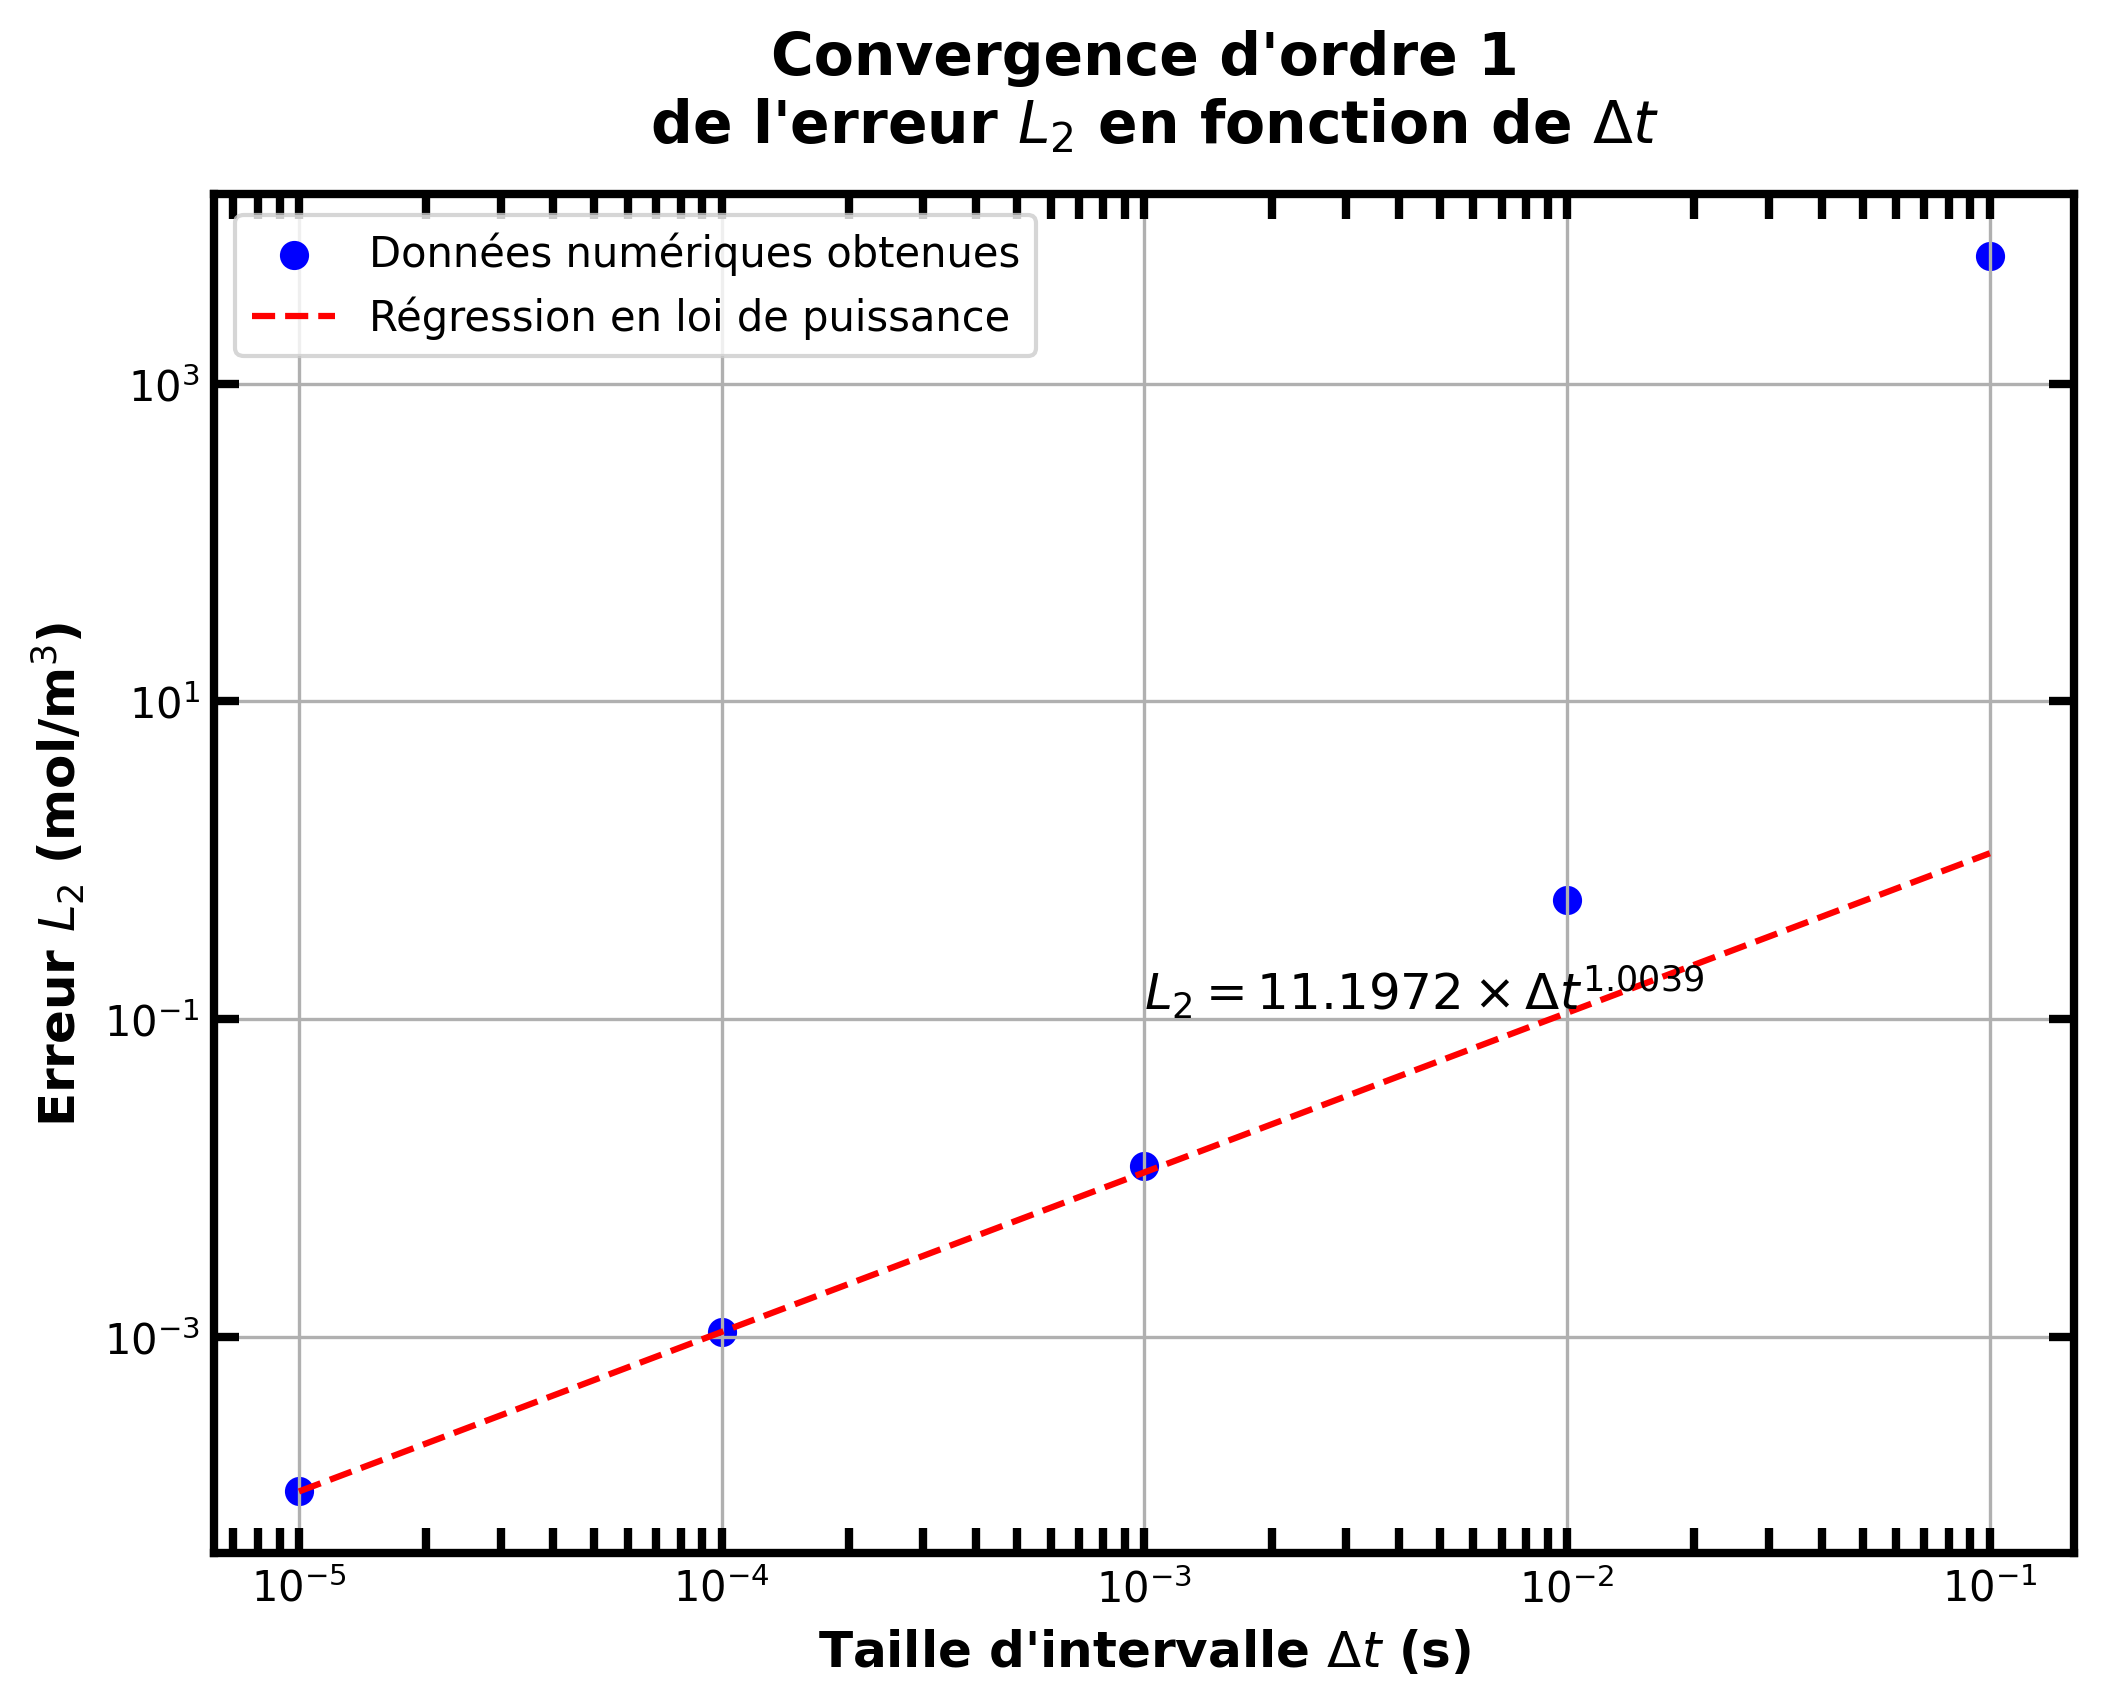
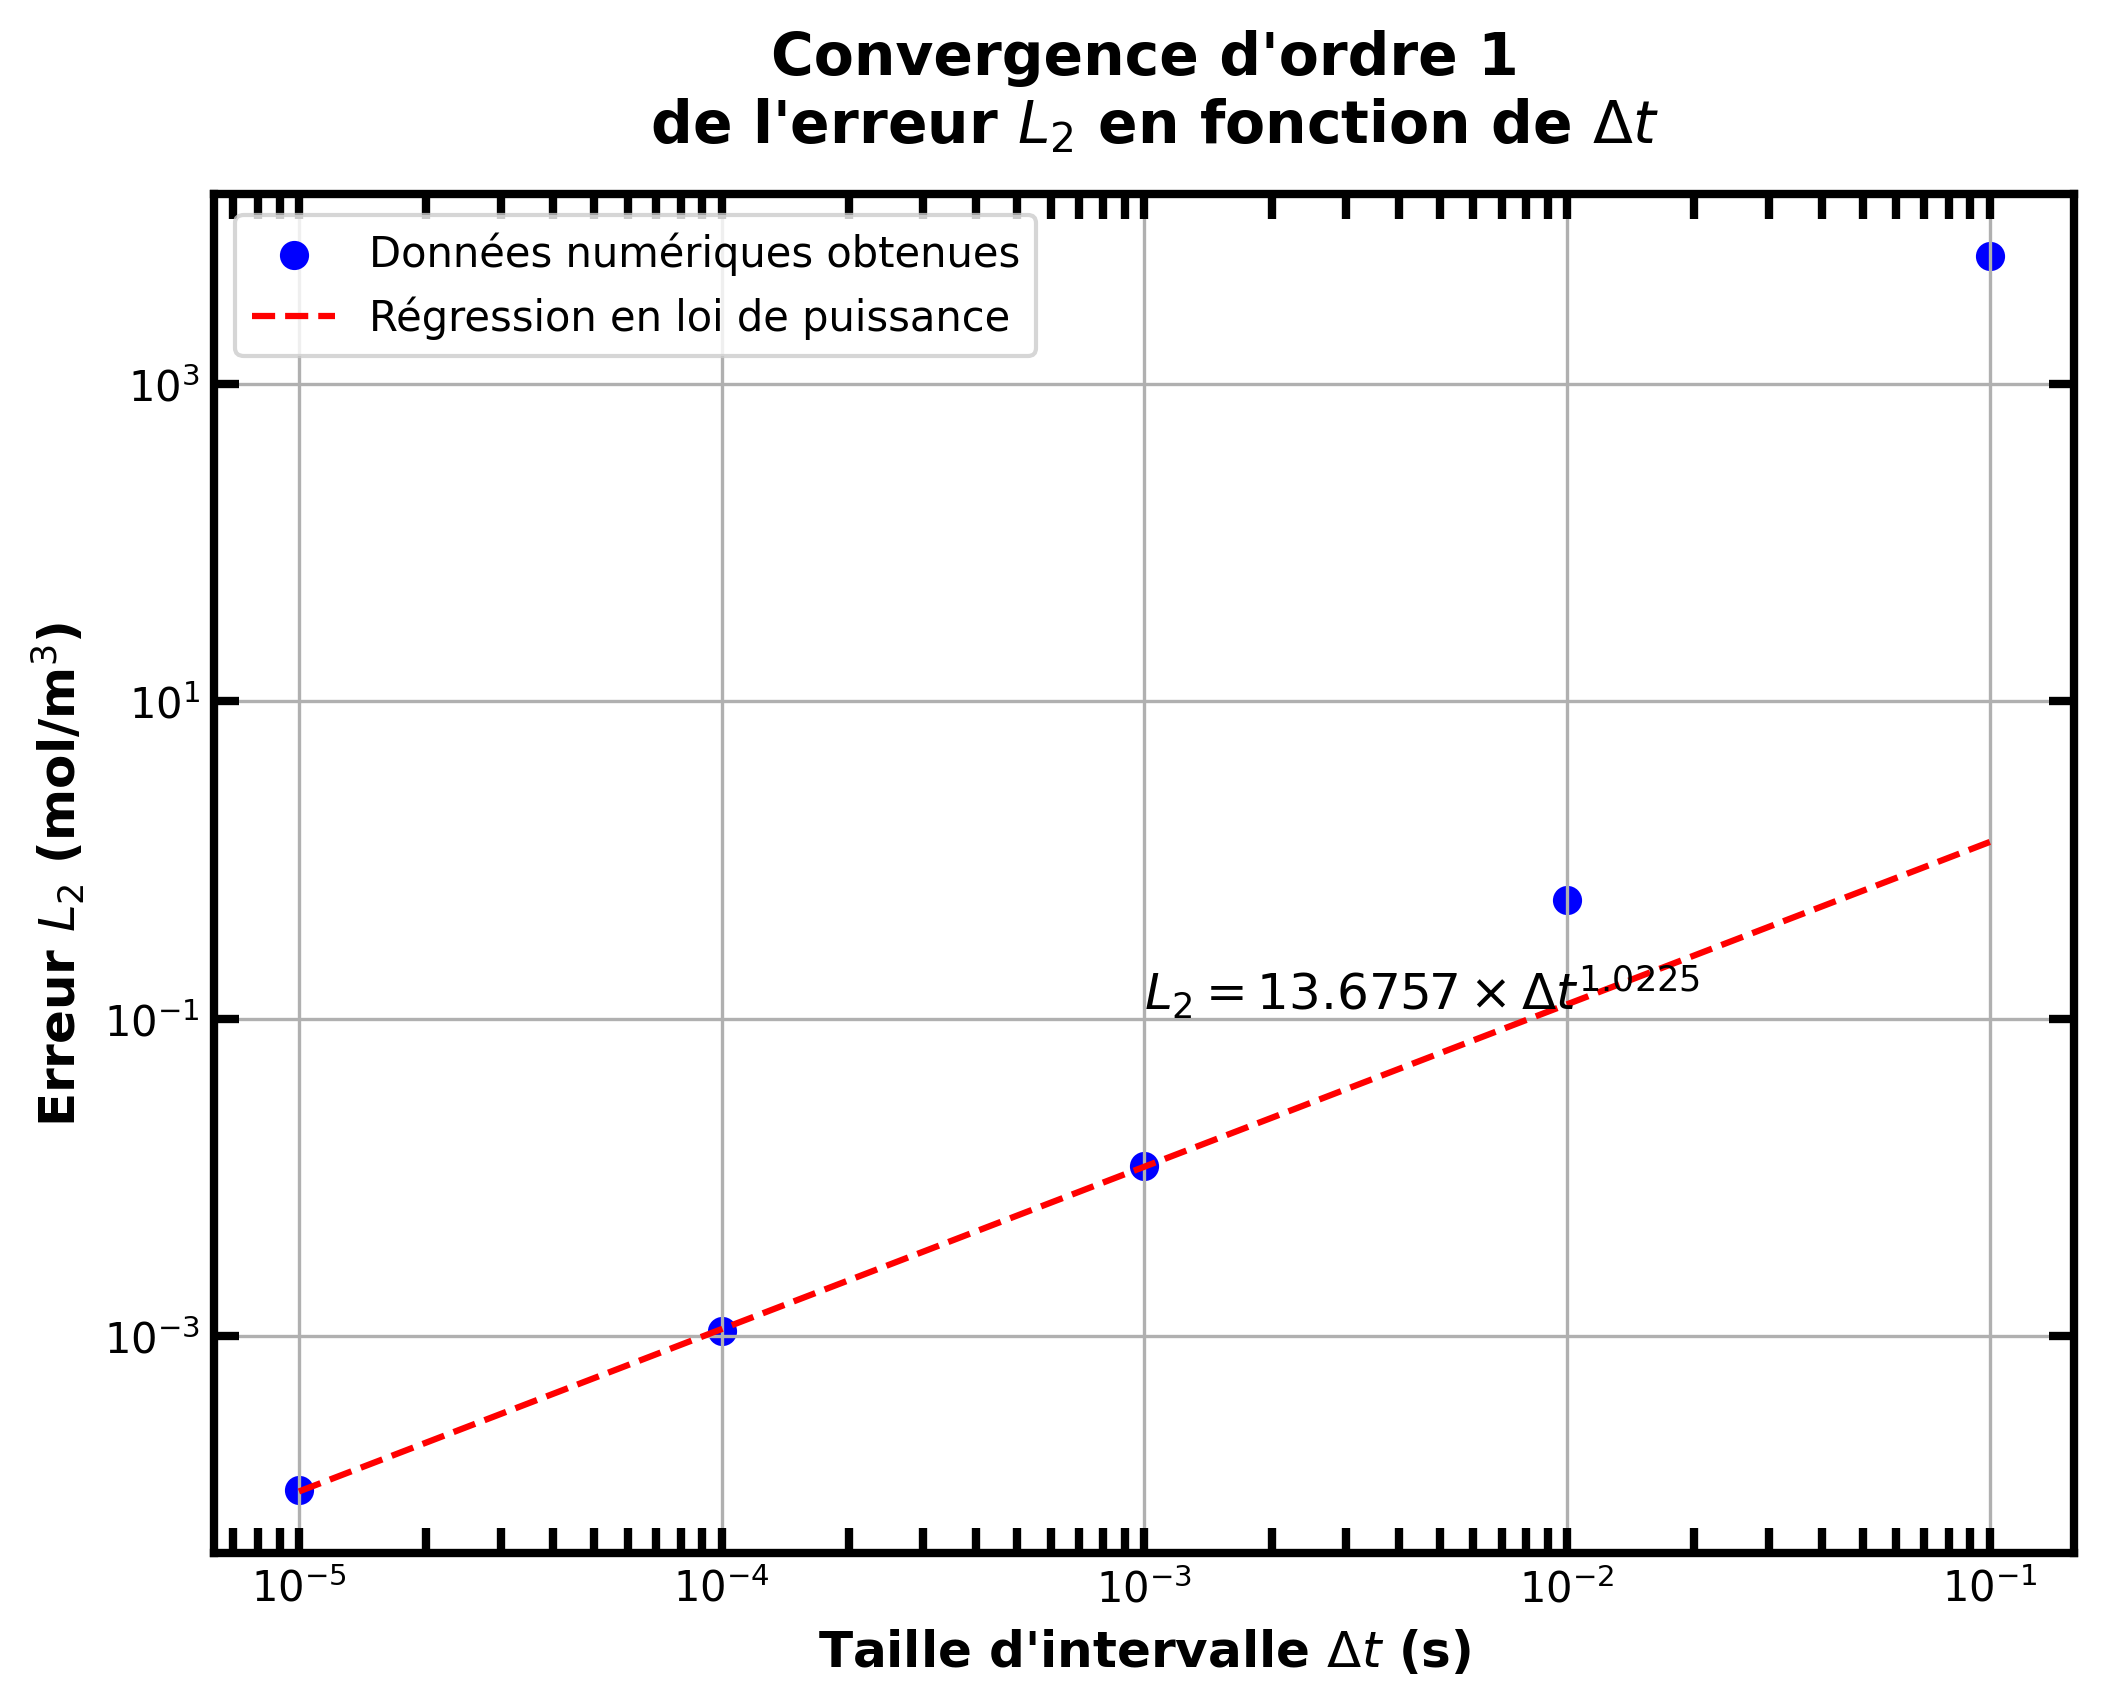
ajout du code verlet vs euler

diff --git a/src/euler_verlet.py b/src/euler_verlet.py
@@ -1,0 +1,80 @@
+"""
+
+OUTIL NUMÉRIQUE DE SIMULATION ...
+
+            >FICHIER EULER EXPLICITE VS VERLET<
+
+AUTEUR: EROJ MOHAMMAD ISHOQ, COLIN BISSONNETTE-CAMPEAU, TRISTAN ANCEL-SÉGUIN
+CRÉATION: 2 MARS 2024
+MISE À JOUR: 6 MARS 2024
+
+"""
+
+    
+#%%===================== IMPORTATION DES MODULES ==========================%%#
+
+
+import numpy as np
+import matplotlib.pyplot as plt
+from scipy.stats import linregress
+import pandas as pd
+import scipy as sp
+import time
+try:
+    from fonction import *
+    from classe import *
+except:
+    pass
+
+
+
+#%%============= ANALYSE TEMPS DE CALCUL ===============%%#
+
+delta_t = np.array([1e-1,1e-2,1e-3,1e-4, 1e-5])
+
+time_verlet = np.array([])
+
+time_euler = np.array([])
+
+for i in range(0, len(delta_t)):
+    
+    prm.dt = delta_t[i]
+    
+    #%% verlet
+    
+    start_time = time.time()
+    
+    vec_x, vec_v, vec_a, t = verlet(prm)
+    
+    end_time = time.time()
+    
+    time_verlet = np.append(time_verlet, end_time - start_time)
+    
+    #%% euler
+    
+    start_time = time.time()
+    
+    t_vect, x_vect, v_vect = euler(prm)
+    
+    end_time = time.time()
+    
+    time_euler = np.append(time_euler, end_time - start_time)
+
+#%% traitement des données
+
+time_verlet = np.sum(time_verlet)
+
+time_euler = np.sum(time_euler)
+
+time = np.array([time_verlet, time_euler])
+
+method = np.array(["Verlet", "Euler explicite"])
+    
+#%% generation de graph
+
+plt.barh(method, time, color=['blue', 'green'])
+plt.xlabel(r"Temps d'exécution [s]") 
+plt.ylabel(r"Type de méthode")
+plt.title(r"Somme des temps d'exécution pour $\Delta t \in [1 \times 10^{-1}, 1 \times 10^{-5}]$" +"\nen fonction des différentes méthodes utilisées")
+plt.savefig("euler_verlet.png", dpi=300,bbox_inches='tight')
+plt.show()

diff --git a/src/anal_conv_euler.py b/src/anal_conv_euler.py
@@ -1,8 +1,8 @@
 """
 
-OUTIL NUMÉRIQUE DE SIMULATION DE LA DIFFUSION DU SEL DANS UN PILIER EN BÉTON POREUX
+OUTIL NUMÉRIQUE DE SIMULATION ...
 
-                        >FICHIER ANALYSE CONVERGENCE - COMSOL<
+            >FICHIER ANALYSE CONVERGENCE - EULER EXPLICITE<
 
 AUTEUR: EROJ MOHAMMAD ISHOQ, COLIN BISSONNETTE-CAMPEAU, TRISTAN ANCEL-SÉGUIN
 CRÉATION: 2 MARS 2024
@@ -46,7 +46,7 @@ for i in range(0, len(delta_t)):
     vec_l2_t = np.append(vec_l2_t, L2_euler)
 
 # Ajuster une loi de puissance à toutes les valeurs (en utilisant np.polyfit avec logarithmes)
-coefficients = np.polyfit(np.log(delta_t[0:-3]), np.log(vec_l2_t[0:-3]), 1)
+coefficients = np.polyfit(np.log(delta_t[0:-2]), np.log(vec_l2_t[0:-2]), 1)
 exponent = coefficients[0]
 
 # Fonction de régression en termes de logarithmes
